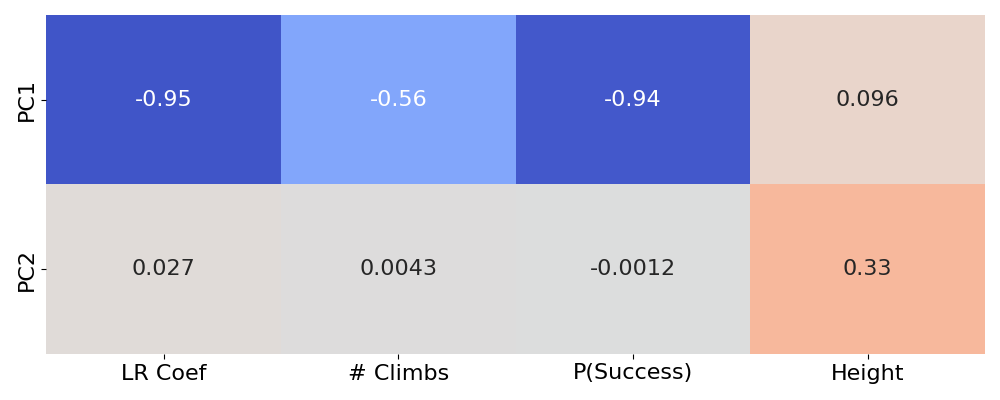
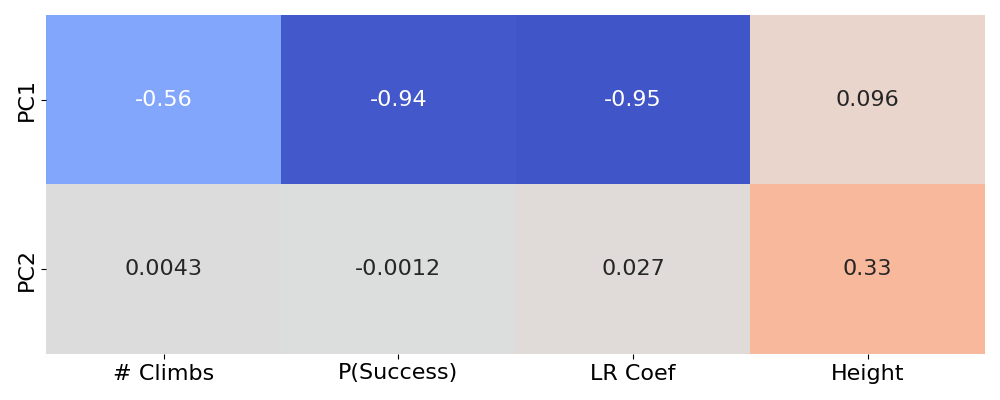
Figure tweaking

diff --git a/figs.py b/figs.py
@@ -7,7 +7,7 @@ from matplotlib.colors import LinearSegmentedColormap
 
 def create_correlation_matrix(df):
     rows = [row for row in df.columns if row.startswith('PC')]
-    cols = ['coefs', 'size', 'success', 'height']
+    cols = ['size', 'success', 'coefs', 'height']
     df_corr = df.corr().loc[rows, cols]
 
     plt.figure(figsize=(10, 4))
@@ -22,7 +22,7 @@ def create_correlation_matrix(df):
         annot_kws={"size": 16}
     )
 
-    ax.set_xticklabels(["LR Coef", "# Climbs", "P(Success)", "Height"], fontsize=16)
+    ax.set_xticklabels(["# Climbs", "P(Success)", "LR Coef", "Height"], fontsize=16)
     ax.set_yticklabels(['PC1', 'PC2'], fontsize=16)
 
     plt.tight_layout()
@@ -120,11 +120,17 @@ if __name__=="__main__":
     create_correlation_matrix(climbers_df)
 
     ### Figure 5 Climber Raw Embeddings Scatter (Color = Success)
-    fig = create_scatter(climbers_df, "success", (18, 10), (0.975, 0.05), False)
+    fig = create_scatter(climbers_df, "success", (18, 8), (0.975, 0.05), False)
     fig.save('figs/climber_pc_scatter_success.png')
 
     ### Figure 6 Problem Principal Component Scatter (Color = ProbType x Color = Success)
     fig = create_scatter(problems_df, "category", (10, 8), (0.975, 0.95), False)
-    fig.save('figs/problem_pc_category_success.png')
+    fig.save('figs/problem_pc_category.png')
     fig = create_scatter(problems_df, "success", (10, 8), (0.975, 0.95), False)
-    fig.save('figs/problem_pc_scatter_success.png')
+    fig.save('figs/problem_pc_success.png')
+
+    ### Figure 6 Problem RAW Scatter (Color = ProbType x Color = Success)
+    fig = create_scatter(problems_df, "category", (10, 8), (0.975, 0.05), True)
+    fig.save('figs/problem_raw_category.png')
+    fig = create_scatter(problems_df, "success", (10, 8), (0.975, 0.05), True)
+    fig.save('figs/problem_raw_success.png')
